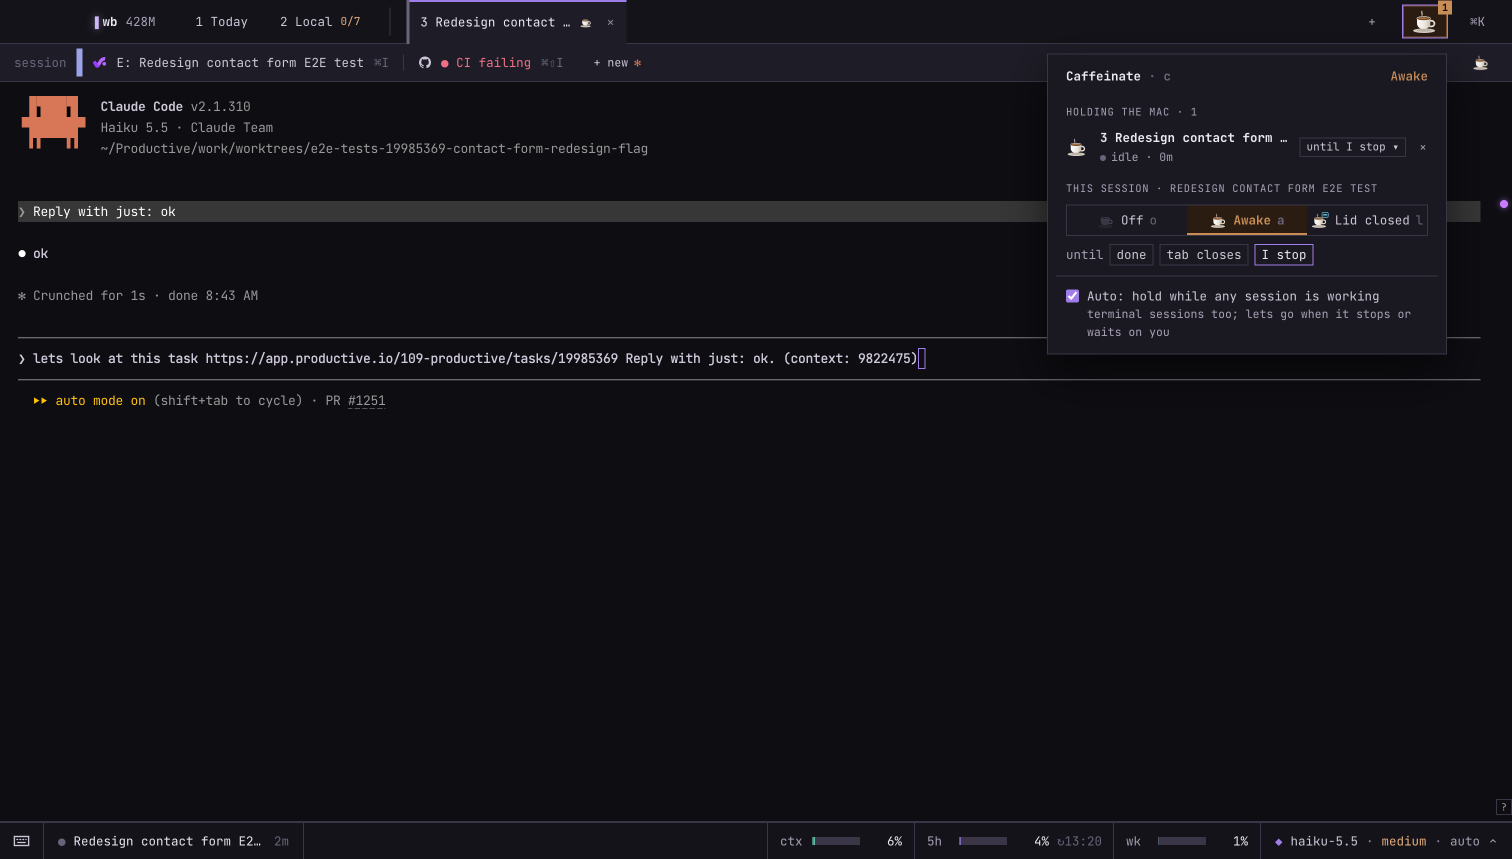
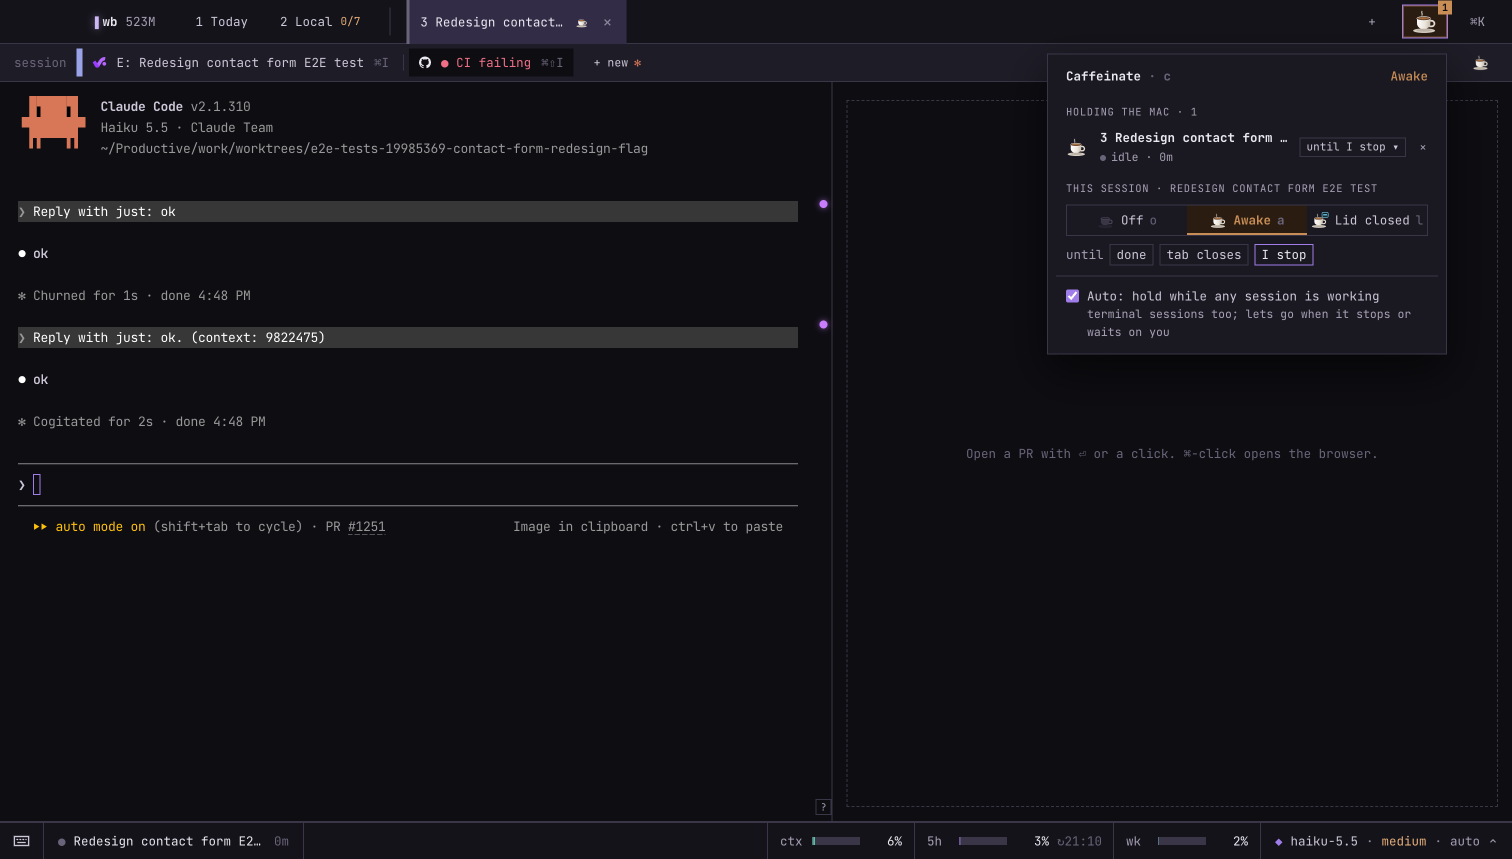
Session bar cup: its own small popover with just this session's Off / Awake / Lid closed and until

diff --git a/src/renderer/src/components/CaffeinateControl.tsx b/src/renderer/src/components/CaffeinateControl.tsx
@@ -1,4 +1,4 @@
-import { useEffect, useRef } from 'react'
+import { useEffect, useRef, useState } from 'react'
 import { UNTIL_LABEL, UNTIL_NEXT, type CafHold, type CafMode, type CafUntil } from '@shared/caffeinate'
 import type { CaffeinateState, Session } from '@shared/types'
 import { activeSessionId, useOverlay, useStore } from '../store'
@@ -40,8 +40,6 @@ export function CaffeinateButton() {
 
   const sessionId = activeSessionId(view)
   const session = sessions.find((s) => s.id === sessionId)
-  const mine = caf && sessionId ? holdOf(caf, sessionId) : undefined
-  const mineMode: CafMode = mine && !mine.auto ? mine.mode : 'off'
   const set = (id: string, mode: CafMode, until?: CafUntil) => void window.workbench.setCaffeinate(id, mode, until).then(setCaf)
 
   useEffect(() => {
@@ -69,7 +67,6 @@ export function CaffeinateButton() {
   const n = caf.holds.length
   const label = `Caffeinate: ${MODE_LABEL[caf.mode]}${n ? ` · held by ${n} session${n > 1 ? 's' : ''}` : ''}`
   const via = caf.mode === 'lid' ? (caf.lidVia === 'amphetamine' ? ' · via Amphetamine' : ' · clamshell') : ''
-  const lidNote = caf.lidAvailable ? null : `Lid closed unavailable: ${caf.lidSetup ?? 'needs power and Amphetamine, or an external display'}`
 
   return (
     <span className="cafb" ref={root}>
@@ -129,32 +126,7 @@ export function CaffeinateButton() {
           {session && (
             <>
               <span className="cafpop-sec">This session · {session.title}</span>
-              <span className="cafpop-modes" role="radiogroup" aria-label="This session">
-                {OPTIONS.map((o) => (
-                  <button
-                    key={o.mode}
-                    role="radio"
-                    aria-checked={o.mode === mineMode}
-                    className={`caf-${o.mode}`}
-                    title={o.mode === 'lid' ? (lidNote ?? 'Keeps running with the lid shut · on power') : undefined}
-                    onClick={() => set(session.id, o.mode)}
-                  >
-                    <Cup mode={o.mode} size={18} />
-                    {o.label} <span className="faint">{o.key}</span>
-                  </button>
-                ))}
-              </span>
-              {mineMode !== 'off' && mine && (
-                <span className="cafpop-untils" role="radiogroup" aria-label="Until">
-                  until
-                  {(['done', 'closed', 'manual'] as const).map((u) => (
-                    <button key={u} role="radio" aria-checked={mine.until === u} onClick={() => set(session.id, mineMode, u)}>
-                      {UNTIL_LABEL[u].replace('until ', '')}
-                    </button>
-                  ))}
-                </span>
-              )}
-              {mineMode === 'lid' && lidNote && <span className="cafpop-msg">{lidNote}; using Awake.</span>}
+              <HoldControls caf={caf} sessionId={session.id} onSet={setCaf} />
             </>
           )}
           {caf.note && <span className="cafpop-msg">{caf.note}</span>}
@@ -171,21 +143,85 @@ export function CaffeinateButton() {
   )
 }
 
-/** The session bar's small cup: this session's hold. Opens the taskbar popover. */
+/** Off / Awake / Lid closed and until, for one session's own hold. */
+function HoldControls({ caf, sessionId, onSet }: { caf: CaffeinateState; sessionId: string; onSet: (c: CaffeinateState) => void }) {
+  const mine = holdOf(caf, sessionId)
+  const mineMode: CafMode = mine && !mine.auto ? mine.mode : 'off'
+  const set = (mode: CafMode, until?: CafUntil) => void window.workbench.setCaffeinate(sessionId, mode, until).then(onSet)
+  const lidNote = caf.lidAvailable ? null : `Lid closed unavailable: ${caf.lidSetup ?? 'needs power and Amphetamine, or an external display'}`
+  return (
+    <>
+      <span className="cafpop-modes" role="radiogroup" aria-label="This session">
+        {OPTIONS.map((o) => (
+          <button
+            key={o.mode}
+            role="radio"
+            aria-checked={o.mode === mineMode}
+            className={`caf-${o.mode}`}
+            title={o.mode === 'lid' ? (lidNote ?? 'Keeps running with the lid shut · on power') : undefined}
+            onClick={() => set(o.mode)}
+          >
+            <Cup mode={o.mode} size={18} />
+            {o.label} <span className="faint">{o.key}</span>
+          </button>
+        ))}
+      </span>
+      {mineMode !== 'off' && mine && (
+        <span className="cafpop-untils" role="radiogroup" aria-label="Until">
+          until
+          {(['done', 'closed', 'manual'] as const).map((u) => (
+            <button key={u} role="radio" aria-checked={mine.until === u} onClick={() => set(mineMode, u)}>
+              {UNTIL_LABEL[u].replace('until ', '')}
+            </button>
+          ))}
+        </span>
+      )}
+      {mine?.auto && <span className="cafpop-empty">Held by Auto while it works.</span>}
+      {mineMode === 'lid' && lidNote && <span className="cafpop-msg">{lidNote}; using Awake.</span>}
+    </>
+  )
+}
+
+/** The session bar's small cup: this session's hold, and a small popover with just its controls (`o` / `a` / `l`, Esc). */
 export function SessionCup({ session }: { session: Session }) {
-  const { caf, setCafOpen } = useStore(useShallow((s) => ({ caf: s.caf, setCafOpen: s.setCafOpen })))
+  const { caf, setCaf } = useStore(useShallow((s) => ({ caf: s.caf, setCaf: s.setCaf })))
+  const [open, setOpen] = useState(false)
+  const root = useRef<HTMLSpanElement>(null)
+  useOverlay(open)
+  useEffect(() => {
+    if (!open) return
+    const onDown = (e: MouseEvent) => !root.current?.contains(e.target as Node) && setOpen(false)
+    const onKey = (e: KeyboardEvent) => {
+      if (e.metaKey || e.ctrlKey || e.altKey) return
+      const pick = OPTIONS.find((o) => o.key === e.key)
+      if (e.key === 'Escape' || pick) {
+        e.preventDefault()
+        e.stopPropagation()
+        if (pick) void window.workbench.setCaffeinate(session.id, pick.mode).then(setCaf)
+        setOpen(false)
+      }
+    }
+    window.addEventListener('mousedown', onDown)
+    window.addEventListener('keydown', onKey, true)
+    return () => {
+      window.removeEventListener('mousedown', onDown)
+      window.removeEventListener('keydown', onKey, true)
+    }
+  })
   const h = holdOf(caf, session.id)
   const mode: CafMode = h?.mode ?? 'off'
   const label = h ? `${MODE_LABEL[h.mode]} · ${h.auto ? 'while working (auto)' : UNTIL_LABEL[h.until]}` : 'Not keeping the Mac awake'
   return (
-    <button
-      className={`sbar-cup caf-${mode}`}
-      aria-label={`Caffeinate: ${label}`}
-      title={`${label} · c`}
-      onMouseDown={(e) => e.stopPropagation()}
-      onClick={() => setCafOpen(!useStore.getState().cafOpen)}
-    >
-      <Cup mode={mode} size={18} />
-    </button>
+    <span className="sbar-cup-wrap" ref={root}>
+      <button className={`sbar-cup caf-${mode}`} aria-haspopup="dialog" aria-expanded={open} aria-label={`Keep the Mac awake for this session: ${label}`} title={label} onClick={() => setOpen(!open)}>
+        <Cup mode={mode} size={18} />
+      </button>
+      {open && caf && (
+        <div className="cafpop sbar-cafpop" role="dialog" aria-label="Keep the Mac awake for this session">
+          <span className="cafpop-head">Keep the Mac awake</span>
+          <HoldControls caf={caf} sessionId={session.id} onSet={setCaf} />
+        </div>
+      )}
+    </span>
   )
 }

diff --git a/src/renderer/src/styles.css b/src/renderer/src/styles.css
@@ -955,7 +955,9 @@ button.run-chip { cursor: pointer; font: inherit; font-size: 12px; }
 .sbar-btn.on { background: var(--bg); color: var(--text); }
 .sbar-rail { width: 6px; align-self: stretch; background: var(--st); flex-shrink: 0; }
 .sbar-title { min-width: 0; max-width: 380px; overflow: hidden; text-overflow: ellipsis; }
-.sbar-cup { margin-left: auto; display: flex; align-items: center; gap: 6px; height: 28px; padding: 0 8px; border: 0; background: transparent; color: var(--text-3); cursor: pointer; }
+.sbar-cup-wrap { position: relative; margin-left: auto; }
+.sbar-cafpop { top: 34px; width: 390px; }
+.sbar-cup { display: flex; align-items: center; gap: 6px; height: 28px; padding: 0 8px; border: 0; background: transparent; color: var(--text-3); cursor: pointer; }
 .sbar-cup:hover { background: color-mix(in srgb, var(--text) 6%, transparent); }
 .sbar-cup.caf-on { color: #C98D55; }
 .sbar-cup.caf-lid { color: #6FC3E0; }

diff --git a/docs/SPEC.md b/docs/SPEC.md
@@ -83,6 +83,7 @@ Image: every screenshot below. Code: `src/renderer/src/theme.css`, `styles.css`.
 - Buttons in one bar share its height (the session bar's are all 28px, `+ new ✻` included).
 - Bars don't box their buttons: the top bar and session bar buttons are text on the bar, raised on hover; boxes are kept for content (lists, sidebars, cards). State on a tab or a session-bar button is a left border (6px for the session bar's task status, which shows no status name), never a dot. The current tab is tinted violet with no violet border; a waiting tab has both.
 - A filter row above a long scrolling list stays pinned at its top (the workstream's Show row). A resizable sidebar shows its edge as a 2px line on hover or while dragging.
+- Popovers open under the button that opens them, right-aligned to it (the TopBar cup's, the session bar cup's): popover colour, a heavy line and a shadow.
 
 ## Shell: TopBar, StatusBar, keys
 
@@ -234,7 +235,7 @@ Image: `docs/design/current/session.png`. Code: `Terminal.tsx`, `TermView.tsx`, 
 - **Session bar** (38px, raised, under the TopBar, only for Workbench sessions):
   - **Task button:** a 6px status rail (the status shows only as its colour; the name is in the tooltip), Productive logo, title, `⌘I` → task sidebar. No task: "link task…".
   - **PR button:** GitHub logo, CI state, `+N`, `⌘⇧I` → PR sidebar (no title; it's in the tooltip and the sidebar); hidden with no PR. The session's PRs, in order: connected by hand, the frontend PR its branch is on, PRs of its tasks.
-  - `+ new ✻` for the same task; at the right a small cup: this session's caffeinate hold (grey when none, coffee for Awake, the laptop badge for Lid closed); it opens the caffeinate popover. The buttons have no boxes, a hairline between them; the open sidebar's button sits on the terminal's colour.
+  - `+ new ✻` for the same task; at the right a small cup: this session's caffeinate hold (grey when none, coffee for Awake, the laptop badge for Lid closed). It opens a small popover for this session only: Off / Awake / Lid closed (`o` / `a` / `l`) and until; "Held by Auto while it works" when Auto holds it. Esc closes. The buttons have no boxes, a hairline between them; the open sidebar's button sits on the terminal's colour.
 - **External sessions** (started in another terminal, reported through the same hooks) are read-only tabs showing state and cwd, with **Take over**: waits for the terminal copy to exit, then resumes it here.
 
 ## Session bookmarks
@@ -287,8 +288,8 @@ Image: `docs/design/current/caffeinate.png`. Code: `CaffeinateControl.tsx`, `Cup
 - **Holds.** Sessions keep the Mac awake by holding it: a session, a level (Awake / Lid closed) and when it lets go: **until done** (its turn ends; set on an idle session it waits for a turn to start and end), **until tab closes**, or **until I stop**. A closed tab always lets go. The Mac follows the strongest hold and sleeps as usual when none is left. My holds and Auto are saved (setting `caf:holds`); "until done" holds don't survive a restart.
 - **Auto** (on by default): every session that's running holds the Mac (Awake), terminal sessions reporting through the hooks included; it lets go when the session stops or waits on me. A session with its own hold isn't doubled.
 - **The cup** (44px, TopBar) shows what the Mac is doing: empty grey (Off), coffee with steam that plays twice when turned on and then rests, on a coffee-tinted button (Awake), plus a cyan shut-laptop badge (Lid closed); a badge counts the holds. No steam with Reduce Motion.
-- **Popover** (click the cup, the session bar's small cup, or `c`; Esc closes): the head says what the Mac is doing (and via Amphetamine / clamshell); **Holding the Mac · n** lists each hold: cup, tab number and title (click opens it), state dot, terminal / working / waiting on you / idle, for how long, `auto`; its until (click cycles) and × to let go (auto rows have neither). **This session** (when a session is open): Off / Awake / Lid closed (`o` / `a` / `l`) and until (done / tab closes / I stop). The Auto checkbox at the bottom. A note says when something changed by itself ("Let go: … is done.").
-- Tabs of held sessions show a small cup; the session bar shows the session's own.
+- **Popover** (click the cup or `c`; Esc closes): the head says what the Mac is doing (and via Amphetamine / clamshell); **Holding the Mac · n** lists each hold: cup, tab number and title (click opens it), state dot, terminal / working / waiting on you / idle, for how long, `auto`; its until (click cycles) and × to let go (auto rows have neither). **This session** (when a session is open): Off / Awake / Lid closed (`o` / `a` / `l`) and until (done / tab closes / I stop). The Auto checkbox at the bottom. A note says when something changed by itself ("Let go: … is done.").
+- Tabs of held sessions show a small cup. The session bar's small cup sets just that session's hold (Image: `docs/design/current/session-cup.png`; see Session view).
 - **Awake:** `powerSaveBlocker('prevent-app-suspension')` while any hold exists.
 - **Lid closed:** on AC power, via Amphetamine's AppleScript (`start new session` indefinite + `enable closed display mode`; `end session` only for a session Workbench started, remembered across crashes; asks before replacing one it didn't start, and Awake if I keep mine). Needs Amphetamine's Power Protect helper; otherwise unavailable with the reason shown. Without Amphetamine, available only in clamshell mode (AC + external display) via `caffeinate -s`. Unplugging pauses it to Awake with a notification; the hold stays Lid closed and resumes on power.
 
